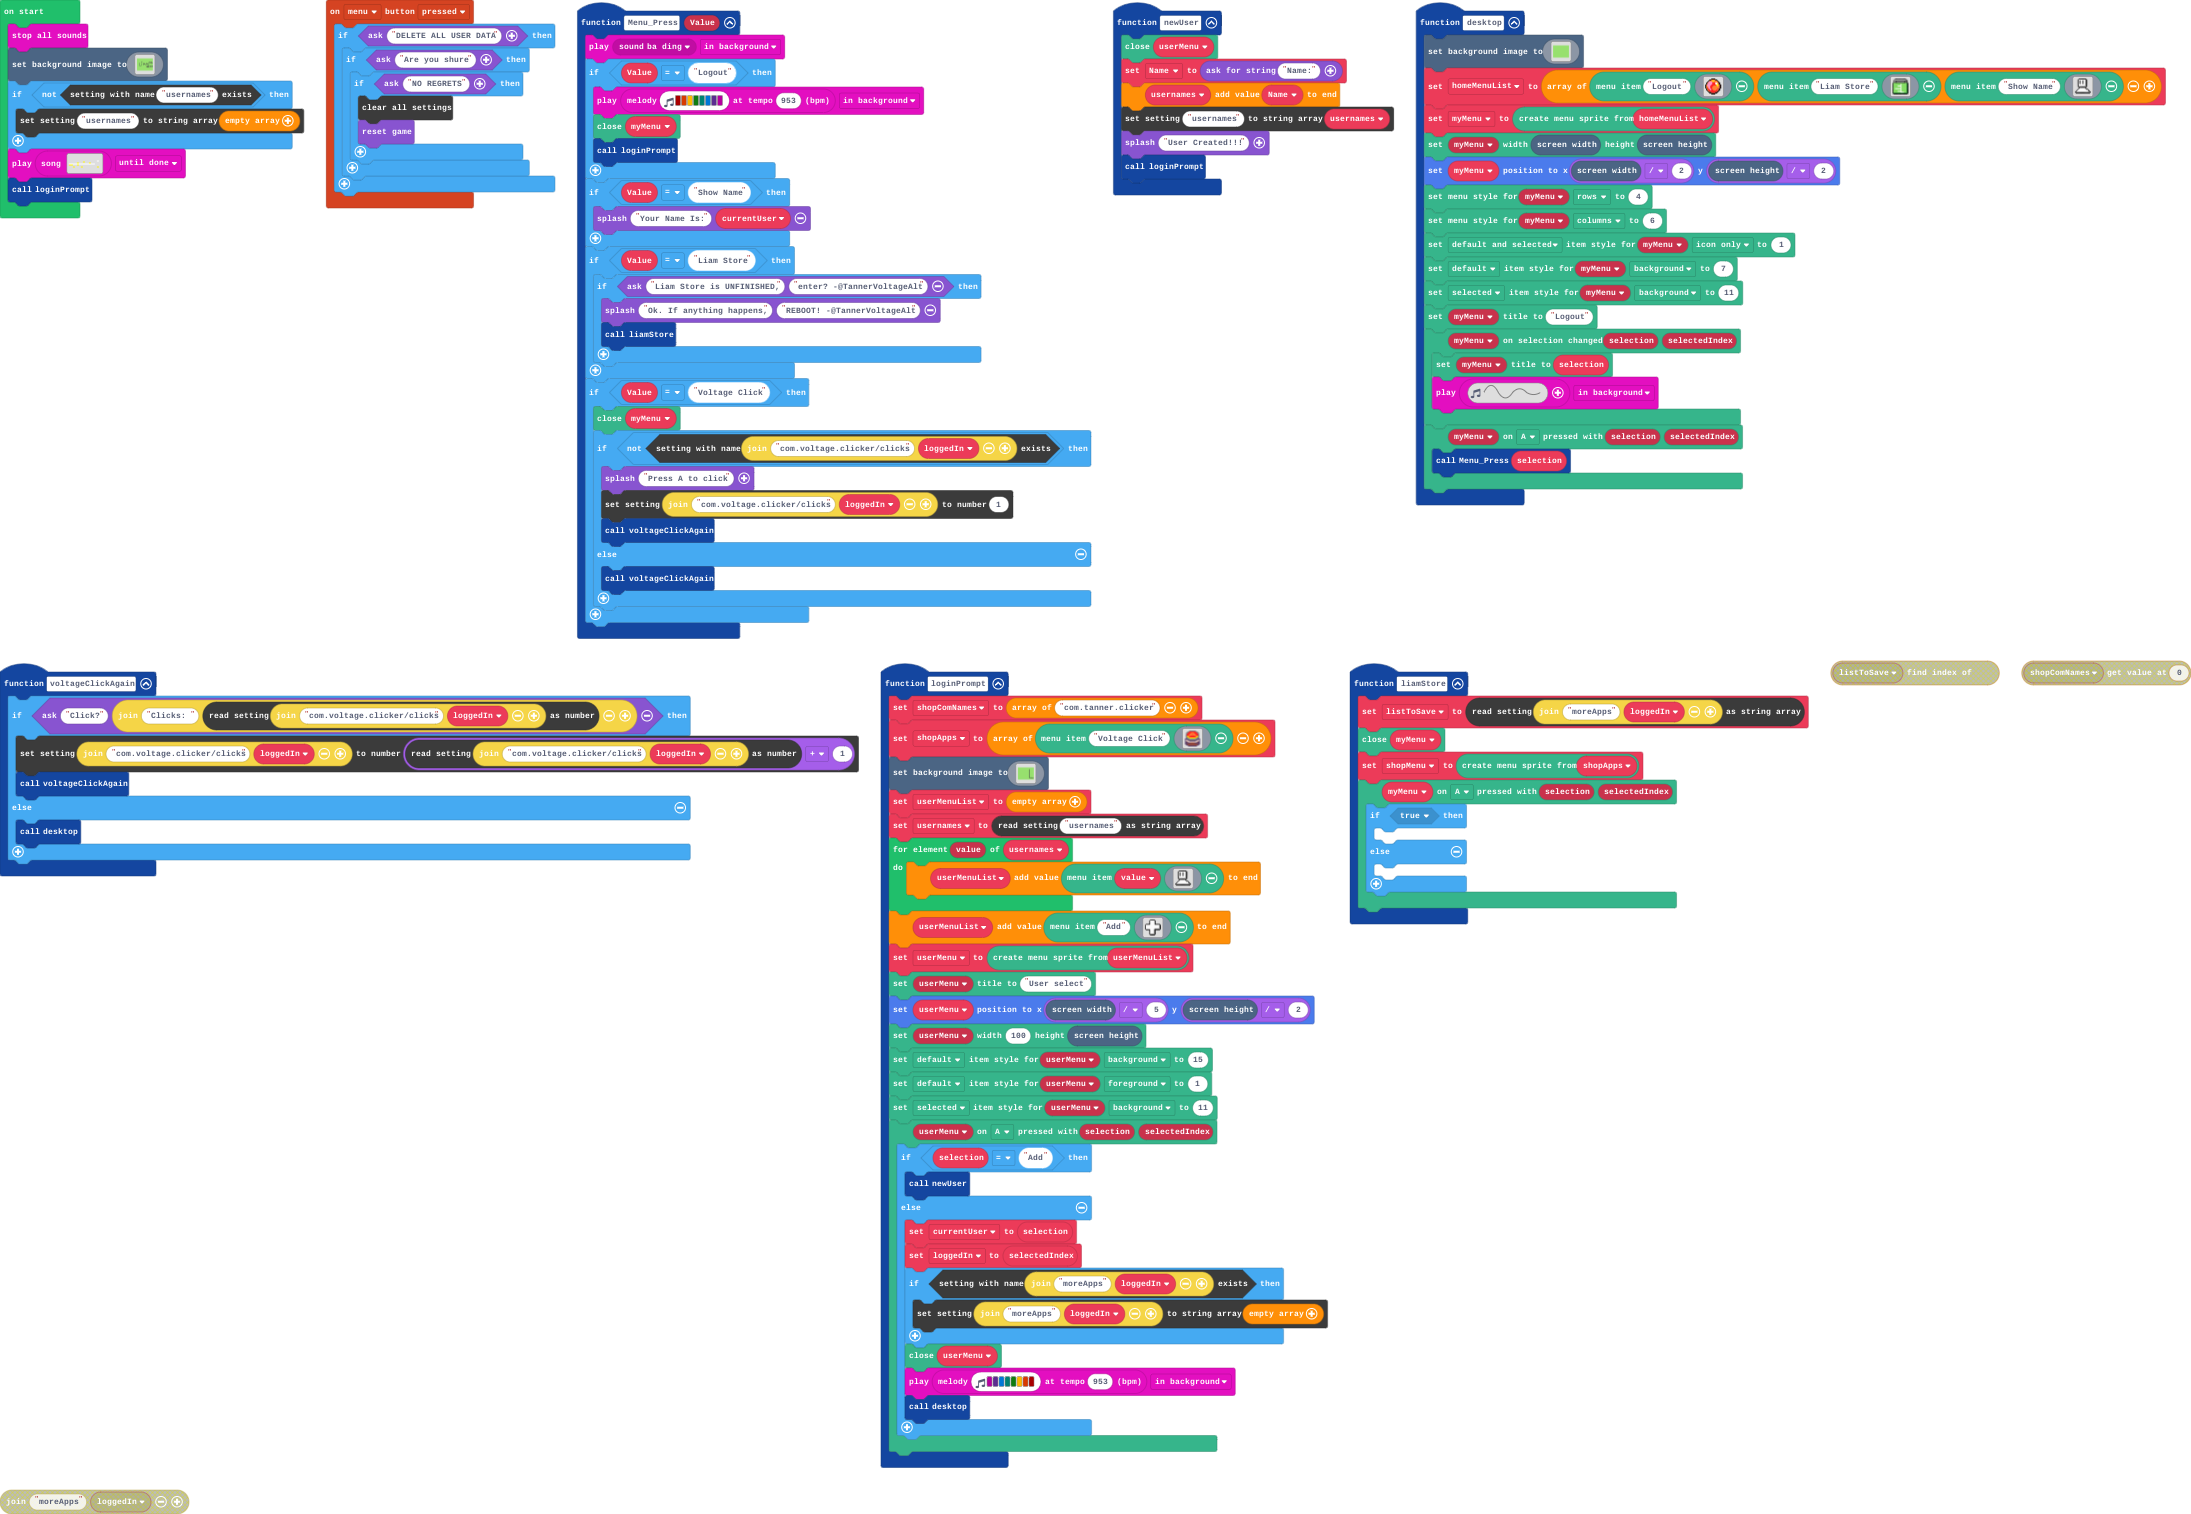
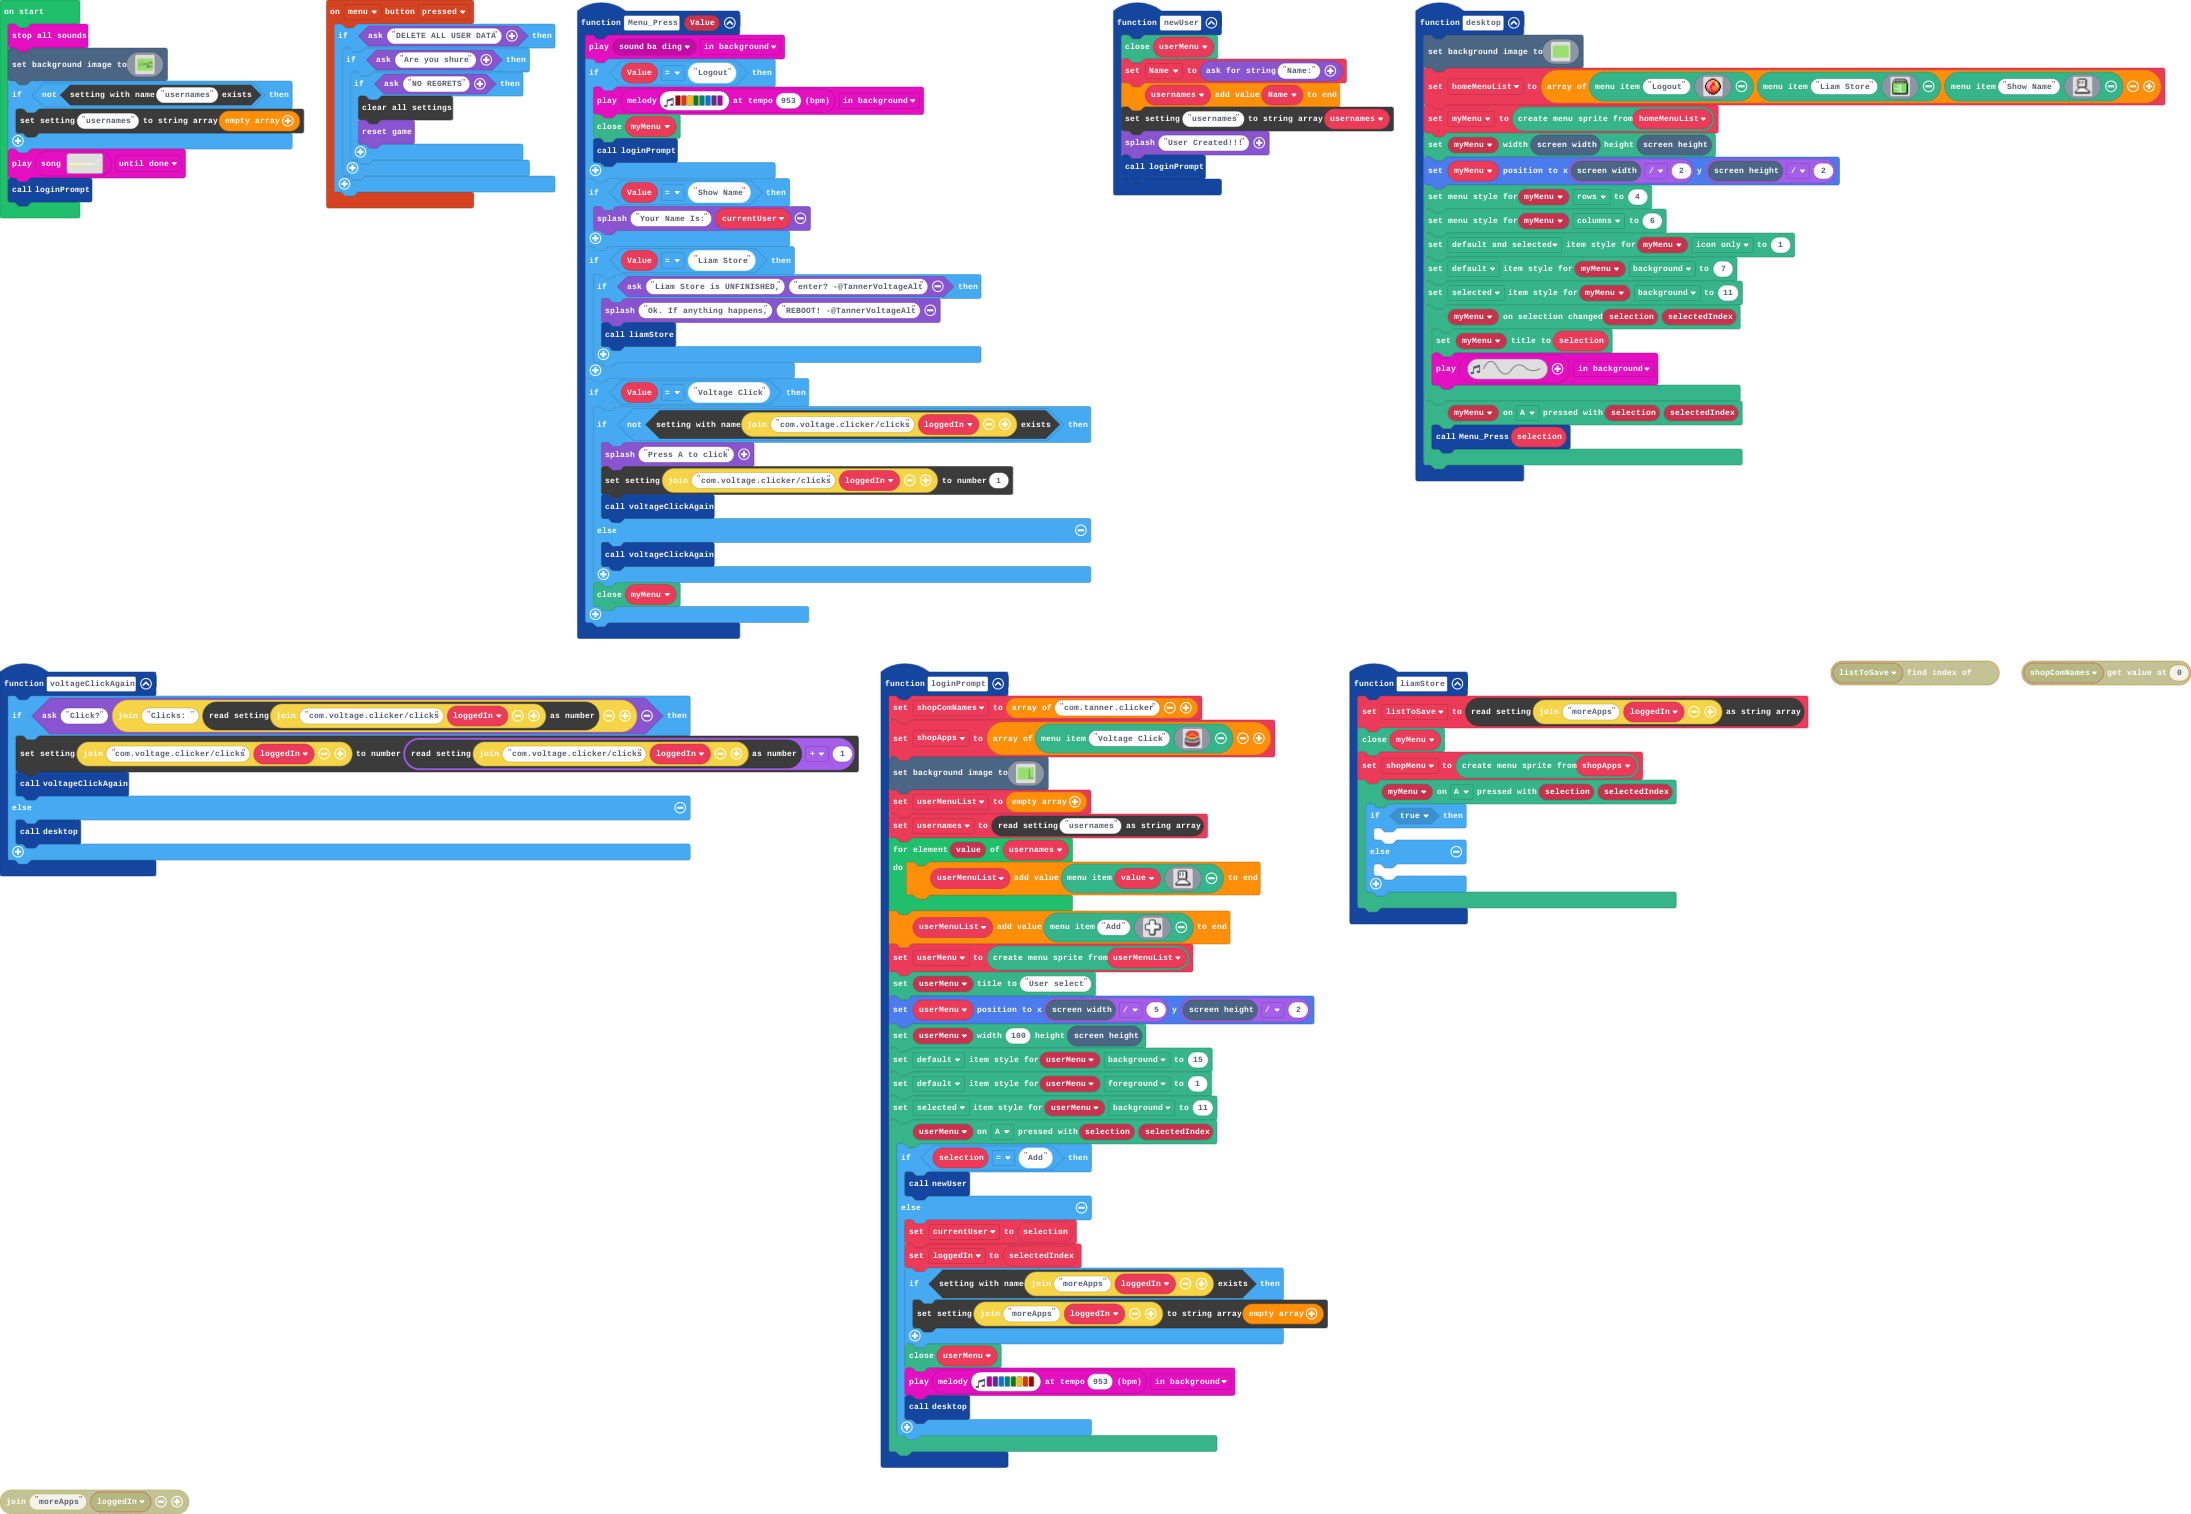
Update main.blocks, main.ts

Changed region(s): [[0.2483, 0.2483, 0.4966, 0.4036], [0.6207, 0.1863, 0.8069, 0.3415], [0.6207, 0.4967, 0.6518, 0.5277]]

diff --git a/main.ts b/main.ts
@@ -132,7 +132,6 @@ function desktop () {
     myMenu.setStyleProperty(miniMenu.StyleKind.DefaultAndSelected, miniMenu.StyleProperty.IconOnly, 1)
     myMenu.setStyleProperty(miniMenu.StyleKind.Default, miniMenu.StyleProperty.Background, 7)
     myMenu.setStyleProperty(miniMenu.StyleKind.Selected, miniMenu.StyleProperty.Background, 11)
-    myMenu.setTitle("Logout")
     myMenu.onSelectionChanged(function (selection, selectedIndex) {
         myMenu.setTitle(selection)
         music.play(music.createSoundEffect(WaveShape.Sine, 200, 600, 255, 0, 100, SoundExpressionEffect.None, InterpolationCurve.Linear), music.PlaybackMode.InBackground)
@@ -158,7 +157,6 @@ function Menu_Press (Value: string) {
         }
     }
     if (Value == "Voltage Click") {
-        myMenu.close()
         if (!(blockSettings.exists("com.voltage.clicker/clicks" + loggedIn))) {
             game.splash("Press A to click")
             blockSettings.writeNumber("com.voltage.clicker/clicks" + loggedIn, 1)
@@ -166,6 +164,7 @@ function Menu_Press (Value: string) {
         } else {
             voltageClickAgain()
         }
+        myMenu.close()
     }
 }
 function voltageClickAgain () {
